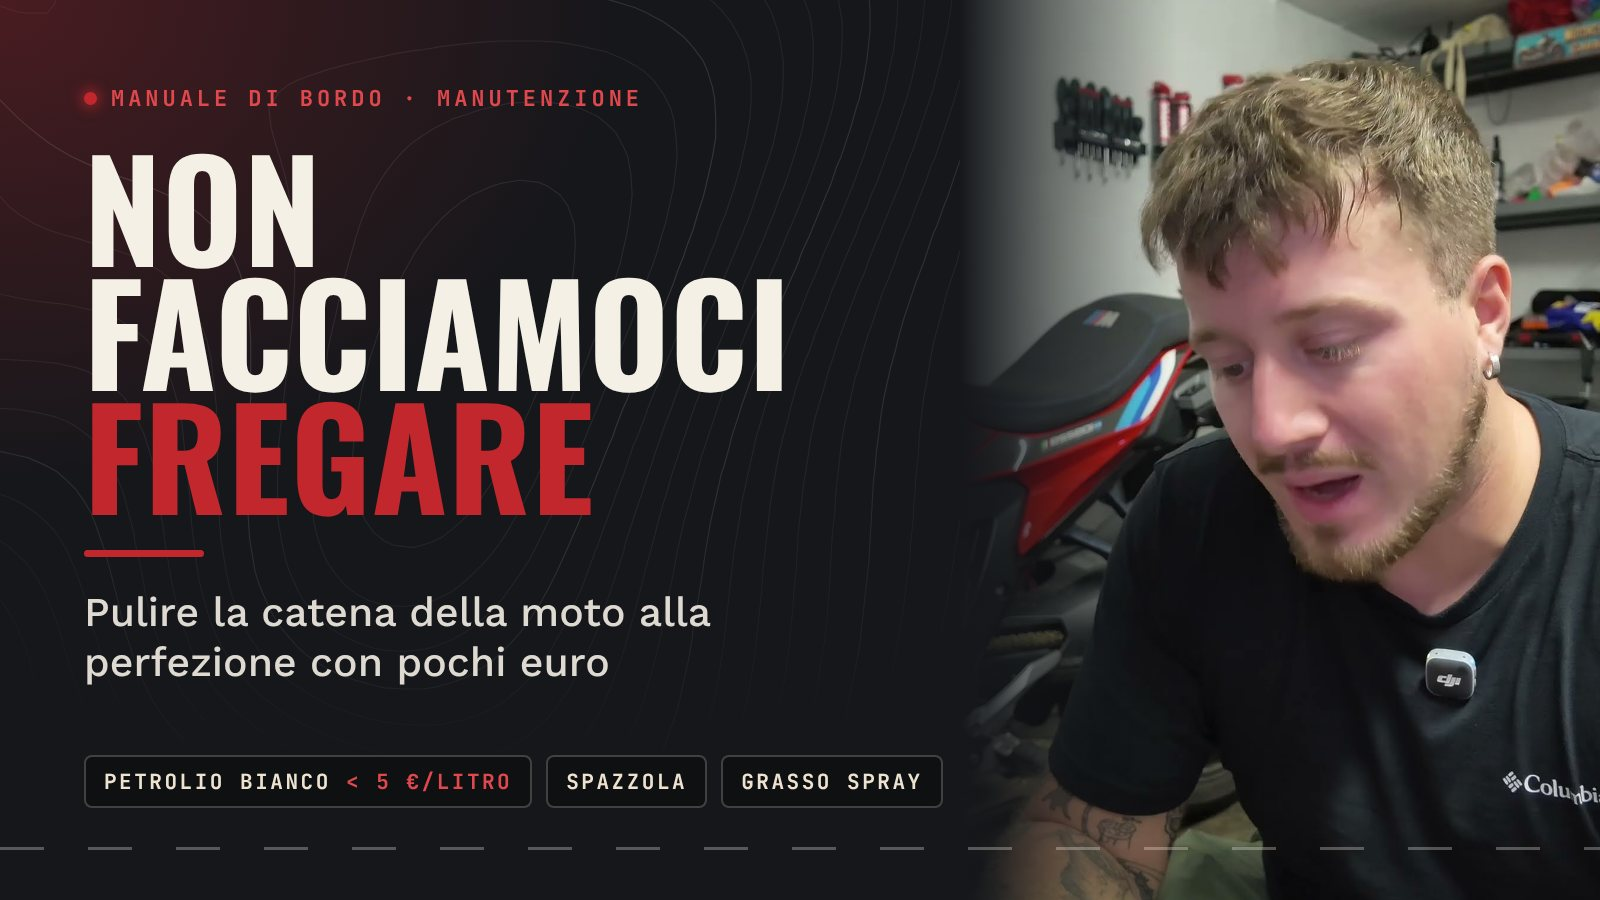
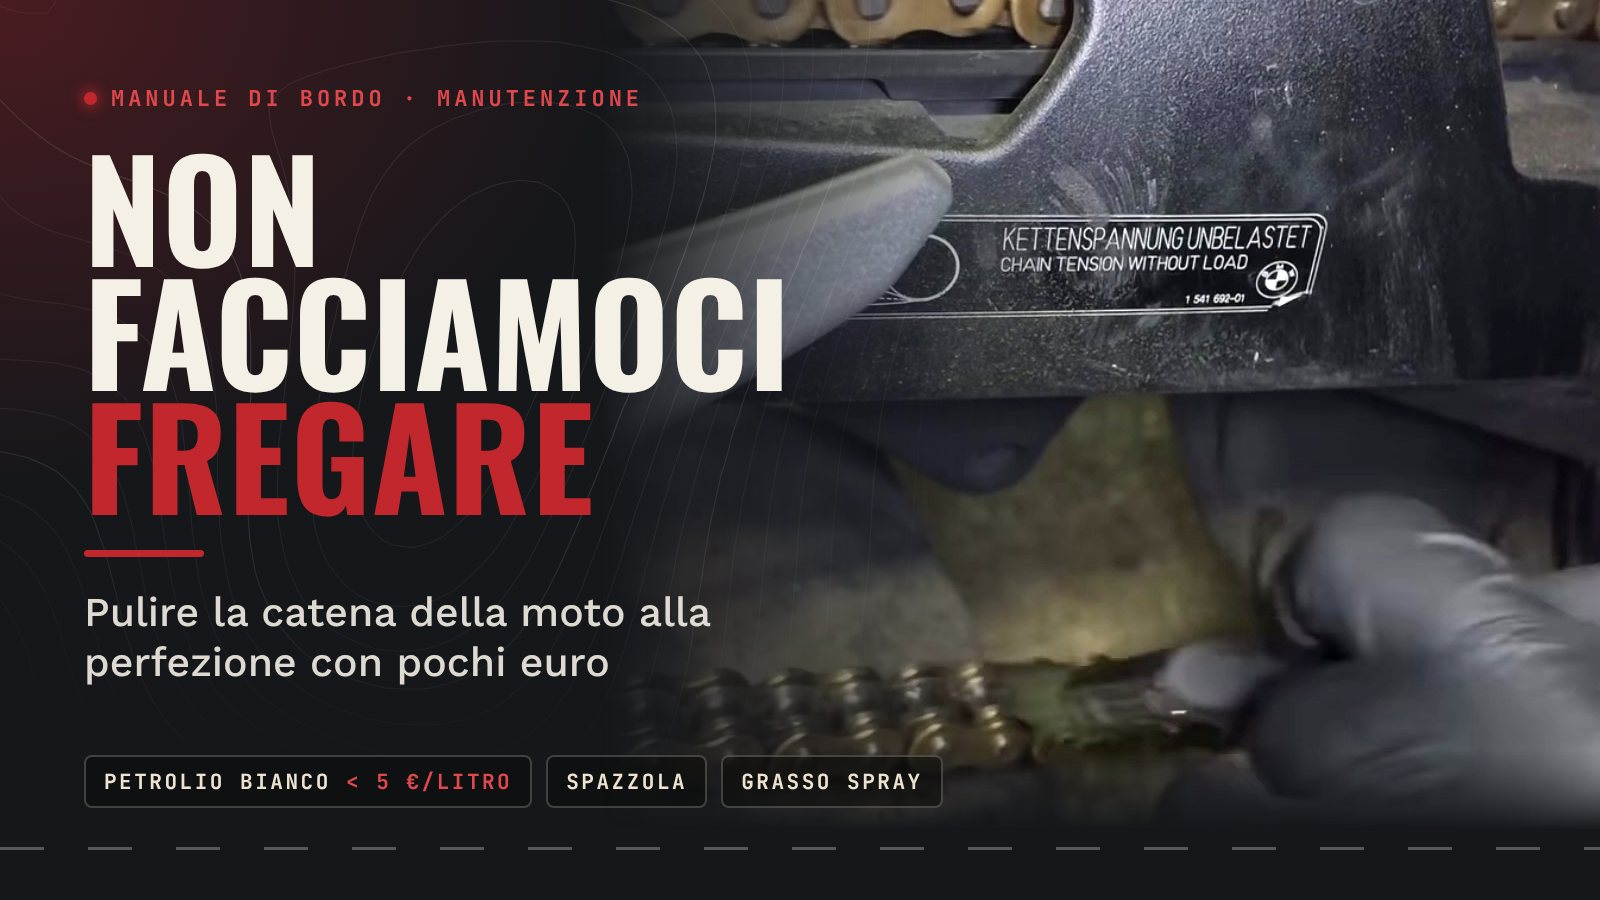
Guida catena: copertina con la mano che pulisce la catena (#120)
Fotogramma del reel Instagram (scaricato intero a 1080x1920) con il
guanto e il pennello sulla catena, ritagliato sopra i sottotitoli e
sfumato accanto al titolo. In CLAUDE.md: come prendere i fotogrammi dai
reel e che Angelo vuole il lavoro in copertina, non la sua faccia.

Claude-Session: https://claude.ai/code/session_01SSAYYosTJoXXm7cdUhpWa3

diff --git a/CLAUDE.md b/CLAUDE.md
@@ -89,7 +89,7 @@ Stile grafico ricorrente: eyebrow `.marker` con trattino dorato, card con bordo 
 - **Piè di pagina** (uguale in tutte le pagine e nei template `FOOTER_HTML` di `api/viaggio.js` e `api/manuale.js`, percorsi assoluti): mezzeria tratteggiata in cima, toppa + "41°53′N 12°29′E — base operativa, Roma", icone dei social (`i-instagram`, `i-tiktok`, `i-youtube`, `i-facebook` in `icons.svg`), e il **"Torna su" con la moto vista dall'alto** su un tratto di strada: `i-moto-top` in `icons.svg` è un'illustrazione a colori (eccezione voluta alla regola "solo tratti") della **BMW S1000XR di Angelo** vista dall'alto, muso in su, con lui sopra — disegno originale fatto sulle proporzioni di una vista dall'alto della XR (Angelo ci tiene che somigli alla sua moto: carena rossa larga con fari a lama e cupolino a freccia, serbatoio grigio con fianchi rossi, codino rosso, scarico lungo a destra). Al clic (`rideToTop` in `script.js`, anche per il pulsante fisso `#back-to-top`, che ha la stessa moto e si nasconde quando si vede il piè di pagina) una copia della moto sale lungo lo schermo con la scia rossa del fanale e la pagina torna in cima con la **stessa durata e curva** (0,9 s, `--ease-in-out`): lo scroll lo fa lo script leggendo il progresso dell'animazione, non lo "smooth" del browser. Per una pagina nuova copia il `<footer>` da una pagina esistente
 - **Anteprima per la condivisione**: `img/og-cover.jpg` (1200×630, toppa + "Il Motonauta" + mezzeria) come `og:image` delle pagine principali, con `twitter:card` grande; "Il Motonauta" usa una foto vera, viaggi e guide la loro foto (le guide senza copertina ripiegano su og-cover)
 - **Titoletti (`.marker`) in rosso** `--rust` in tutto il sito (prima blu): il blu resta per link e accenti
-- **Da video a guida**: Angelo manda il link di un suo video (YouTube/TikTok/Instagram) e lo trasformiamo in una guida del Manuale. Da questa sessione cloud: `yt-dlp --js-runtimes node --extractor-args "youtube:player_client=android_vr" --write-auto-subs --sub-langs "it.*" --skip-download` prende i sottotitoli automatici (il video invece YouTube lo blocca dai server: per i fotogrammi serve che Angelo mandi il file). Pulire il testo parlato (parolacce ammorbidite, errori dei sottotitoli tipo "iPhone"→Ipone, "Oing"→O-ring), scriverla nel formato delle altre guide (consigli numerati, sottotitoli, domanda finale, link al video originale) e **mostrarla ad Angelo prima di pubblicarla**; non inventare marche o dati che nel video non si capiscono, chiederli
-- **Illustrazioni "a mattoncini"** (stile istruzioni LEGO, colori della tavolozza LEGO, senza il marchio): la guida della catena ha tavole SVG per ogni passaggio e un cartone animato (la copertina invece è `copertina-video.jpg`, un fotogramma del video di Angelo con il titolo scritto sopra, così si legge subito di cosa parla) MP4+WebM in `img/manuale/catena/`, generati con gli script in `strumenti/istruzioni-lego/` (vedi il LEGGIMI lì). Nei dati delle guide: blocco `{ tipo: "video", animazione: true, src, srcWebm, poster }` = video muto in loop che parte da solo quando è nello schermo (fermo con "riduci movimento"); le copertine salvate nel sito (`/img/...`) diventano assolute per l'anteprima nei social
+- **Da video a guida**: Angelo manda il link di un suo video (YouTube/TikTok/Instagram) e lo trasformiamo in una guida del Manuale. Da questa sessione cloud: `yt-dlp --js-runtimes node --extractor-args "youtube:player_client=android_vr" --write-auto-subs --sub-langs "it.*" --skip-download` prende i sottotitoli automatici (il video invece YouTube lo blocca dai server). **Per i fotogrammi usa il reel Instagram**: `yt-dlp "https://www.instagram.com/reel/ID/"` lo scarica intero a 1080×1920, poi `ffmpeg -ss SECONDI -i ig.mp4 -frames:v 1 f.jpg`. Il reel ha i sottotitoli impressi a circa due terzi dell'altezza: ritagliare sopra. Angelo per le copertine vuole un momento del lavoro (la catena, la sua mano), non la sua faccia. Pulire il testo parlato (parolacce ammorbidite, errori dei sottotitoli tipo "iPhone"→Ipone, "Oing"→O-ring), scriverla nel formato delle altre guide (consigli numerati, sottotitoli, domanda finale, link al video originale) e **mostrarla ad Angelo prima di pubblicarla**; non inventare marche o dati che nel video non si capiscono, chiederli
+- **Illustrazioni "a mattoncini"** (stile istruzioni LEGO, colori della tavolozza LEGO, senza il marchio): la guida della catena ha tavole SVG per ogni passaggio e un cartone animato (la copertina invece è `copertina-video.jpg`: il fotogramma del reel con la sua mano che passa il pennello sulla catena, con il titolo scritto accanto, così si legge subito di cosa parla) MP4+WebM in `img/manuale/catena/`, generati con gli script in `strumenti/istruzioni-lego/` (vedi il LEGGIMI lì). Nei dati delle guide: blocco `{ tipo: "video", animazione: true, src, srcWebm, poster }` = video muto in loop che parte da solo quando è nello schermo (fermo con "riduci movimento"); le copertine salvate nel sito (`/img/...`) diventano assolute per l'anteprima nei social
 - **Tendine e suggerimenti** (in `style.css` subito dopo `input, textarea, select{ cursor:auto; }`): le voci di tutti i `<select>` hanno fondo scuro e testo chiaro (`color-scheme:dark` + `option`), perché su Windows Chrome l'elenco si apriva bianco con testo crema e non si leggeva (successo con la cilindrata). I suggerimenti delle città (`.place-suggest-list`) stanno dentro riquadri i cui figli hanno tutti `z-index:1`: il blocco in uso (`:focus-within` / `:has(.place-suggest-list.open)`) sale a 5, così la tendina copre i pulsanti sotto. **Per un nuovo riquadro con campi città**, aggiungi la sua classe all'elenco `:is(...)` di quelle due regole
 - **Comparsa allo scroll automatica**: `script.js` aggiunge da solo la classe `.reveal` ai blocchi dentro `section > .wrap` (esclusa la prima sezione di ogni pagina e l'area riservata), e apre le griglie card per card. Non serve aggiungere nulla nell'HTML per i contenuti nuovi
